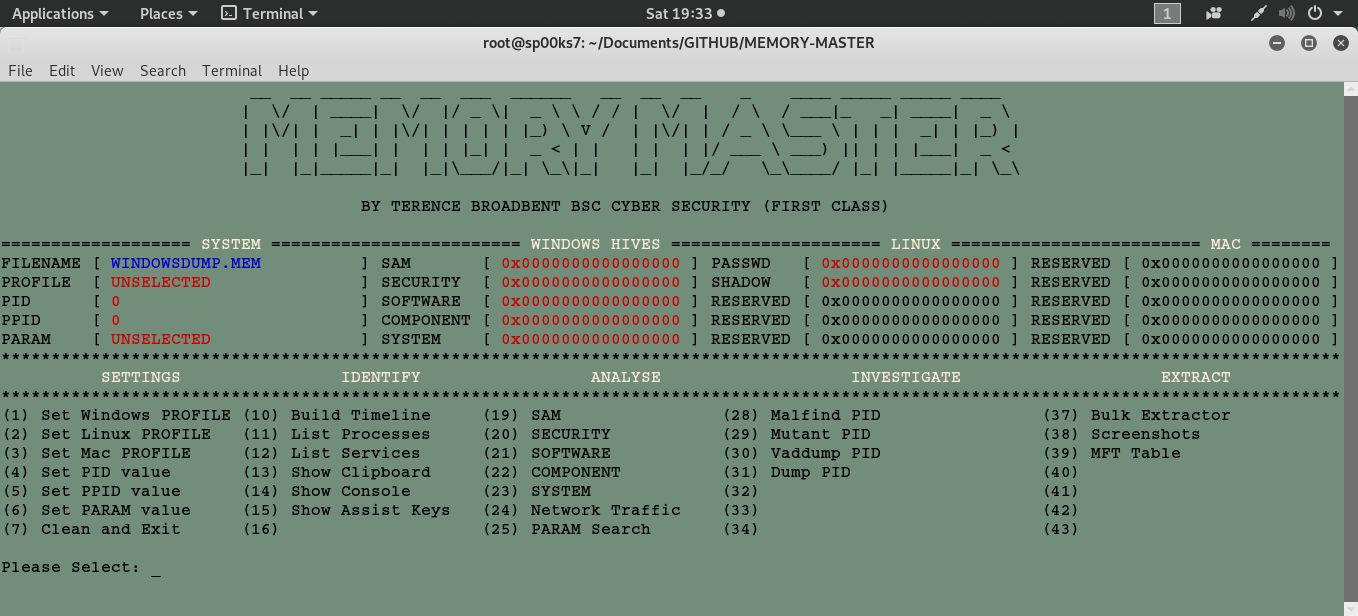
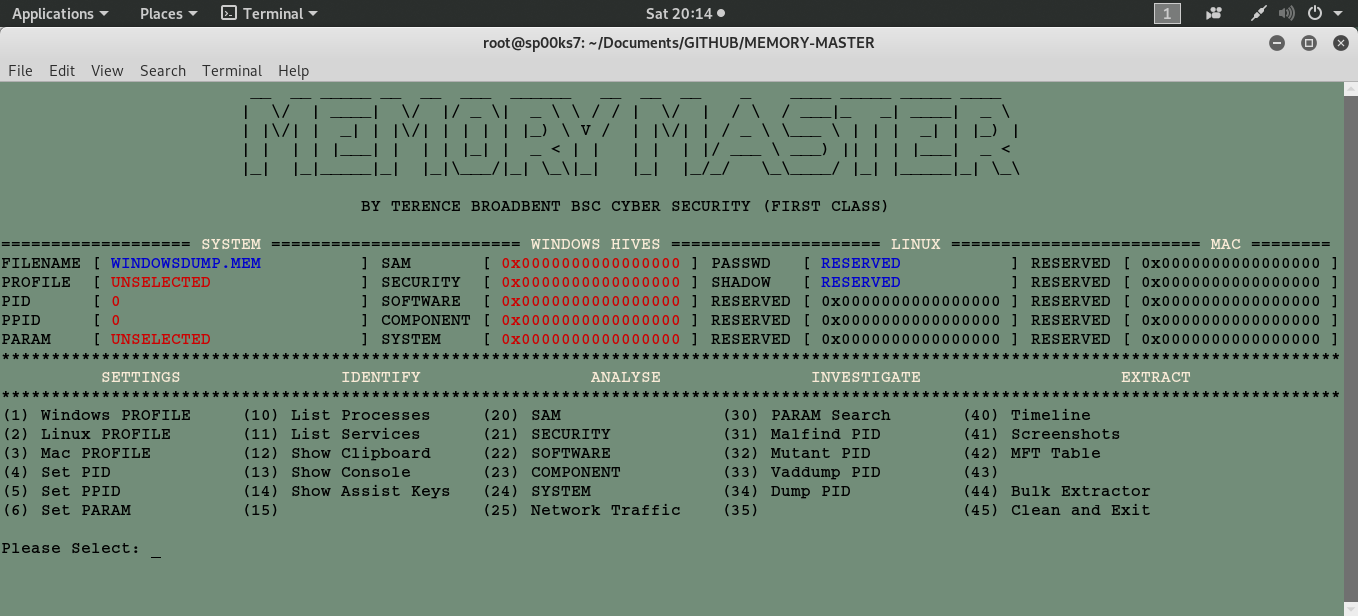
changes

diff --git a/memory_master.py b/memory_master.py
@@ -163,7 +163,7 @@ def display():
    print colored("IDENTIFY",'white'),
    print " "*15,
    print colored("ANALYSE",'white'),
-   print " "*17,
+   print " "*13,
    print colored("INVESTIGATE",'white'),
    print " "*18,
    print colored("EXTRACT",'white'),
@@ -188,8 +188,8 @@ SEC = "0x0000000000000000"
 SOF = "0x0000000000000000"
 COM = "0x0000000000000000"
 SYS = "0x0000000000000000"
-PWD = "0x0000000000000000"
-SHW = "0x0000000000000000"
+PWD = "RESERVED          "
+SHW = "RESERVED          "
 UN2 = "0x0000000000000000"
 UN3 = "0x0000000000000000"
 UN4 = "0x0000000000000000"
@@ -210,13 +210,13 @@ REG = 0
 # -------------------------------------------------------------------------------------
 
 menu = {}
-menu['(1)']="Set Windows PROFILE (10) Build Timeline	(19) SAM		(28) Malfind PID		(37) Bulk Extractor"
-menu['(2)']="Set Linux PROFILE	(11) List Processes	(20) SECURITY		(29) Mutant PID			(38) Screenshots"
-menu['(3)']="Set Mac PROFILE	(12) List Services	(21) SOFTWARE		(30) Vaddump PID		(39) MFT Table"
-menu['(4)']="Set PID value	(13) Show Clipboard	(22) COMPONENT		(31) Dump PID			(40)" 
-menu['(5)']="Set PPID value	(14) Show Console	(23) SYSTEM		(32) 				(41)"
-menu['(6)']="Set PARAM value	(15) Show Assist Keys	(24) Network Traffic	(33) 				(42)"
-menu['(7)']="Clean and Exit	(16) 			(25) PARAM Search	(34) 				(43)"
+menu['(1)']="Windows PROFILE	(10) List Processes	(20) SAM		(30) PARAM Search	(40) Timeline"
+menu['(2)']="Linux PROFILE	(11) List Services	(21) SECURITY		(31) Malfind PID	(41) Screenshots"
+menu['(3)']="Mac PROFILE\t	(12) Show Clipboard	(22) SOFTWARE		(32) Mutant PID		(42) MFT Table"
+menu['(4)']="Set PID		(13) Show Console	(23) COMPONENT		(33) Vaddump PID	(43) " 
+menu['(5)']="Set PPID		(14) Show Assist Keys	(24) SYSTEM		(34) Dump PID		(44) Bulk Extractor"
+menu['(6)']="Set PARAM		(15) 			(25) Network Traffic	(35) 			(45) Clean and Exit"
+
 
 # -------------------------------------------------------------------------------------
 # AUTHOR  : Terence Broadbent                                                    
@@ -387,49 +387,11 @@ while True:
 # AUTHOR  : Terence Broadbent                                                    
 # CONTRACT: GitHub
 # Version : 1.0
-# Details : Menu option selected - Clean up system files and exit the program.
-# Modified: N/A
-# -------------------------------------------------------------------------------------
-
-   if selection =='7':
-      if os.path.exists('timeline.txt'):
-         os.remove('timeline.txt')
-      if os.path.exists('mfttable.txt'):
-         os.remove('mfttable.txt')
-      if os.path.exists('screenShots'):
-         shutil.rmtree('screenShots') 
-      if os.path.exists('bulkOut'):
-         shutil.rmtree('bulkOut') 
-      if os.path.exists('PIData'):
-         shutil.rmtree('PIData')
-      if os.path.exists('malFind'):
-         shutil.rmtree('malFind')   
-      if os.path.exists('mutantFiles'):
-         shutil.rmtree('mutantFiles') 
-      if os.path.exists('vadDump'):
-         shutil.rmtree('vadDump')
-      exit(False)
-
-# ------------------------------------------------------------------------------------- 
-# AUTHOR  : Terence Broadbent                                                    
-# CONTRACT: GitHub
-# Version : 1.0
-# Details : Menu option selected - Build timeline.
-# Modified: N/A
-# -------------------------------------------------------------------------------------
-
-   if selection =='10':
-      os.system("volatility -f " + fileName + PRO + " timeliner --output-file timeline.txt")
-
-# ------------------------------------------------------------------------------------- 
-# AUTHOR  : Terence Broadbent                                                    
-# CONTRACT: GitHub
-# Version : 1.0
 # Details : Menu option selected - Show running processes.
 # Modified: N/A
 # -------------------------------------------------------------------------------------
 
-   if selection =='11':
+   if selection =='10':
       os.system("volatility -f " + fileName + PRO + " psscan | more")
       os.system("volatility -f " + fileName + PRO + " psscan --output greptext > F1.txt")
       os.system("tail -n +2 F1.txt > F2.txt")
@@ -487,7 +449,7 @@ while True:
 # Modified: N/A
 # -------------------------------------------------------------------------------------
 
-   if selection =='12':
+   if selection =='11':
       os.system("volatility -f " + fileName + PRO + " svcscan | more")
       raw_input("\nPlease any key to continue...")
 
@@ -499,7 +461,7 @@ while True:
 # Modified: N/A
 # -------------------------------------------------------------------------------------
 
-   if selection =='13':
+   if selection =='12':
       os.system("volatility -f " + fileName + PRO + " clipboard")
       raw_input("\nPlease any key to continue...")
 
@@ -511,7 +473,7 @@ while True:
 # Modified: N/A
 # -------------------------------------------------------------------------------------
 
-   if selection =='14':
+   if selection =='13':
       os.system("volatility -f " + fileName + PRO + " consoles")
       raw_input("\nPlease any key to continue...")
 
@@ -523,7 +485,7 @@ while True:
 # Modified: N/A
 # -------------------------------------------------------------------------------------
 
-   if selection =='15':
+   if selection =='14':
       os.system("volatility -f " + fileName + PRO + " userassist")
       raw_input("\nPlease any key to continue...")
 
@@ -535,7 +497,7 @@ while True:
 # Modified: N/A
 # -------------------------------------------------------------------------------------
 
-   if selection =='19':
+   if selection =='20':
       if (SAM == "0x0000000000000000") or (SYS == "0x0000000000000000"):
          print colored("Not possible...",'white')
       else:
@@ -550,7 +512,7 @@ while True:
 # Modified: N/A
 # -------------------------------------------------------------------------------------
 
-   if selection =='20':
+   if selection =='21':
       if (SEC == "0x0000000000000000"):
          print colored("Not possible...",'white')
       else:
@@ -565,7 +527,7 @@ while True:
 # Modified: N/A
 # -------------------------------------------------------------------------------------
 
-   if selection =='21':
+   if selection =='22':
       if (SOF == "0x0000000000000000"):
          print colored("Not possible...",'white')
       else:
@@ -580,7 +542,7 @@ while True:
 # Modified: N/A
 # -------------------------------------------------------------------------------------
 
-   if selection =='22':
+   if selection =='23':
       if (COM == "0x0000000000000000"):
          print colored("Not possible...",'white')
       else:
@@ -595,7 +557,7 @@ while True:
 # Modified: N/A
 # -------------------------------------------------------------------------------------
 
-   if selection =='23':
+   if selection =='24':
       if (SYS == "0x0000000000000000"):
          print colored("Not possible...",'white')
       else:
@@ -610,7 +572,7 @@ while True:
 # Modified: N/A
 # -------------------------------------------------------------------------------------
 
-   if selection =='24':
+   if selection =='25':
       os.system("volatility -f " + fileName + PRO + " netscan")
       raw_input("\nPlease any key to continue...")
 
@@ -622,7 +584,7 @@ while True:
 # Modified: N/A
 # ------------------------------------------------------------------------------------- 
    
-   if selection =='25':
+   if selection =='30':
       os.system("volatility -f " + fileName + " " + PRO + " pslist | grep " + PRM)
       raw_input("Please any key to continue...")
 
@@ -634,7 +596,7 @@ while True:
 # Modified: N/A
 # -------------------------------------------------------------------------------------
 
-   if selection =='28':
+   if selection =='31':
       test = os.path.exists('malFind')
       if test !=1:
          os.system('mkdir malFind')
@@ -650,12 +612,12 @@ while True:
 # Modified: N/A
 # -------------------------------------------------------------------------------------
 
-   if selection =='29':
+   if selection =='32':
       test = os.path.exists('mutantFiles')
       if test !=1:
          os.system('mkdir mutantFiles')
       os.system("volatility -f " + fileName + PRO + " handles -p " + PI1 + " -t mutantFiles -s")
-      print "\nMutant extraction is now available in directory malFind...\n"
+      print "\nMutant extraction is now available in directory mutantFiles...\n"
       raw_input("Please any key to continue...")
 
 # ------------------------------------------------------------------------------------- 
@@ -666,12 +628,12 @@ while True:
 # Modified: N/A
 # -------------------------------------------------------------------------------------
 
-   if selection =='30':
+   if selection =='33':
       test = os.path.exists('vadDump')
       if test !=1:
          os.system('mkdir vadDump')
       os.system("volatility -f " + fileName + PRO + " vaddump -p " + PI1 + " -D vadDump")
-      print "\nVaddunp extraction is now available in directory malFind...\n"
+      print "\nVaddunp extraction is now available in directory vadDump...\n"
       raw_input("Please any key to continue...")
 
 # ------------------------------------------------------------------------------------- 
@@ -682,7 +644,7 @@ while True:
 # Modified: N/A
 # -------------------------------------------------------------------------------------
 
-   if selection =='31':
+   if selection =='34':
       test = os.path.exists('PIData')
       if test !=1:
          os.system('mkdir PIData') 
@@ -694,14 +656,12 @@ while True:
 # AUTHOR  : Terence Broadbent                                                    
 # CONTRACT: GitHub
 # Version : 1.0
-# Details : Menu option selected - Bulk Extract.
+# Details : Menu option selected - Build timeline.
 # Modified: N/A
 # -------------------------------------------------------------------------------------
 
-   if selection =='37':
-      os.system("bulk_extractor -o bulkOut " + fileName)
-      print "\nBulk extraction is now available in directory bulkOut...\n"
-      raw_input("Please any key to continue...")
+   if selection =='40':
+      os.system("volatility -f " + fileName + PRO + " timeliner --output-file timeline.txt")
 
 #------------------------------------------------------------------------------------- 
 # AUTHOR  : Terence Broadbent                                                    
@@ -711,7 +671,7 @@ while True:
 # Modified: N/A
 # -------------------------------------------------------------------------------------
 
-   if selection =='38':
+   if selection =='41':
       test = os.path.exists('screenShots')
       if test !=1:
          os.system('mkdir screenShots')   
@@ -727,9 +687,49 @@ while True:
 # Modified: N/A
 # -------------------------------------------------------------------------------------
 
-   if selection =='39':
+   if selection =='42':
       os.system("volatility -f " + fileName + PRO + " mftparser >> mfttable.txt")
       print "The MFT has been sucessfully exported to mfttable.txt..."
       raw_input("Please any key to continue...")
+
+# ------------------------------------------------------------------------------------- 
+# AUTHOR  : Terence Broadbent                                                    
+# CONTRACT: GitHub
+# Version : 1.0
+# Details : Menu option selected - Bulk Extract.
+# Modified: N/A
+# -------------------------------------------------------------------------------------
+
+   if selection =='44':
+      os.system("bulk_extractor -o bulkOut " + fileName)
+      print "\nBulk extraction is now available in directory bulkOut...\n"
+      raw_input("Please any key to continue...")
+
+# ------------------------------------------------------------------------------------- 
+# AUTHOR  : Terence Broadbent                                                    
+# CONTRACT: GitHub
+# Version : 1.0
+# Details : Menu option selected - Clean up system files and exit the program.
+# Modified: N/A
+# -------------------------------------------------------------------------------------
+
+   if selection =='45':
+      if os.path.exists('timeline.txt'):
+         os.remove('timeline.txt')
+      if os.path.exists('mfttable.txt'):
+         os.remove('mfttable.txt')
+      if os.path.exists('screenShots'):
+         shutil.rmtree('screenShots') 
+      if os.path.exists('bulkOut'):
+         shutil.rmtree('bulkOut') 
+      if os.path.exists('PIData'):
+         shutil.rmtree('PIData')
+      if os.path.exists('malFind'):
+         shutil.rmtree('malFind')   
+      if os.path.exists('mutantFiles'):
+         shutil.rmtree('mutantFiles') 
+      if os.path.exists('vadDump'):
+         shutil.rmtree('vadDump')
+      exit(False)
 
 #Eof...
